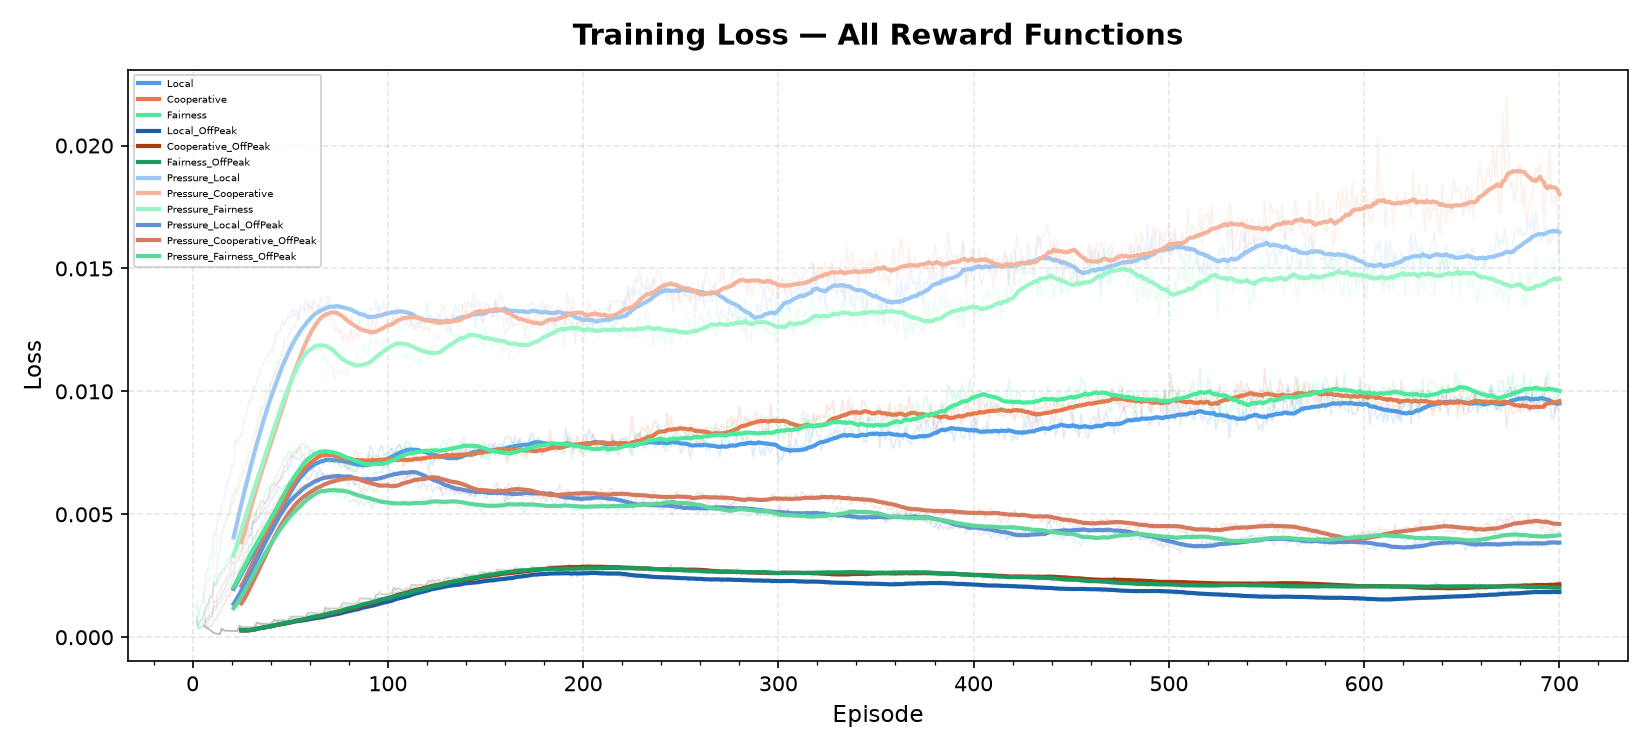
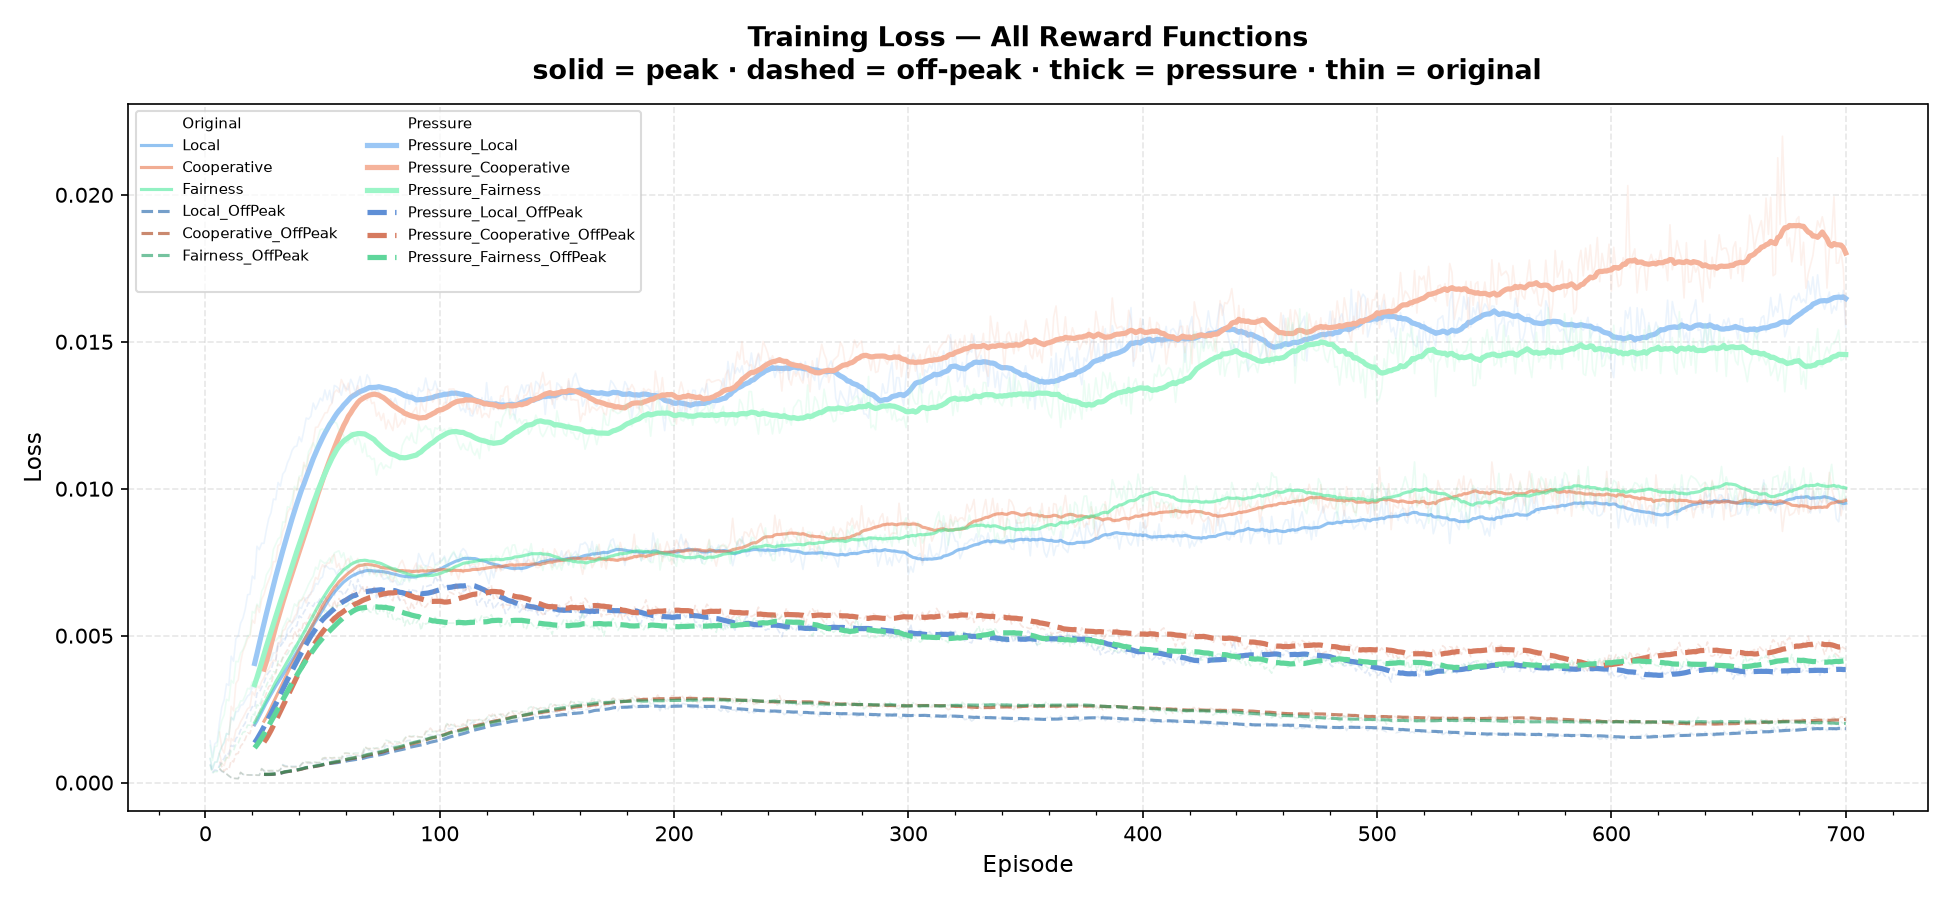
FINAL COMMIT FOR YEAR 2  (readme.md) added deprecated info in simulate.py (plot_result.py) changes the loss plot to be more distinct
that's it. good job.

diff --git a/plot_result.py b/plot_result.py
@@ -224,7 +224,7 @@ def plot_rewards(data: dict[str, dict], filename:str) -> None:
  
 def plot_loss(data: dict[str, dict]) -> None:
     """Plot loss for all reward functions on one graph."""
-    fig, ax = plt.subplots(figsize=(11, 5))
+    fig, ax = plt.subplots(figsize=(13, 6))
 
     for label, result in data.items():
         losses = result["episode_losses"]
@@ -237,14 +237,44 @@ def plot_loss(data: dict[str, dict]) -> None:
         ep_nz, l_nz = zip(*nonzero)
         ep_nz, l_nz = np.array(ep_nz), list(l_nz)
 
-        ax.plot(ep_nz, l_nz, color=color, alpha=0.18, linewidth=0.8)
-        ax.plot(ep_nz, smooth(l_nz, SMOOTH_WINDOW),
-                color=color, linewidth=2, label=label)
+        is_pressure = label.startswith("Pressure")
+        is_offpeak  = "OffPeak" in label
 
-    ax.set_title("Training Loss — All Reward Functions", fontsize=14, fontweight="bold", pad=12)
+        lw    = 2.5 if is_pressure else 1.5
+        alpha = 1.0 if is_pressure else 0.6
+        ls    = "--" if is_offpeak  else "-"
+
+        ax.plot(ep_nz, l_nz,
+                color=color, alpha=alpha * 0.18, linewidth=0.8, linestyle=ls)
+        ax.plot(ep_nz, smooth(l_nz, SMOOTH_WINDOW),
+                color=color, linewidth=lw, linestyle=ls, alpha=alpha, label=label)
+
+    handles, labels_list = ax.get_legend_handles_labels()
+    orig_h     = [h for h, l in zip(handles, labels_list) if not l.startswith("Pressure")]
+    orig_l     = [l for l in labels_list if not l.startswith("Pressure")]
+    press_h    = [h for h, l in zip(handles, labels_list) if l.startswith("Pressure")]
+    press_l    = [l for l in labels_list if l.startswith("Pressure")]
+
+    from matplotlib.lines import Line2D
+    sep = Line2D([], [], color="none", label="")          # blank spacer
+    leg_handles = (
+        [Line2D([], [], color="none", label="— Original —")] + orig_h +
+        [sep] +
+        [Line2D([], [], color="none", label="— Pressure —")] + press_h
+    )
+    leg_labels = (
+        ["Original"] + orig_l +
+        [""] +
+        ["Pressure"] + press_l
+    )
+    ax.legend(leg_handles, leg_labels, fontsize=7, loc="upper left",
+              ncol=2, framealpha=0.7)
+
+    ax.set_title("Training Loss — All Reward Functions\n"
+                 "  solid = peak · dashed = off-peak · thick = pressure · thin = original",
+                 fontsize=13, fontweight="bold", pad=12)
     ax.set_xlabel("Episode", fontsize=11)
     ax.set_ylabel("Loss", fontsize=11)
-    ax.legend(fontsize=5)
     ax.grid(True, alpha=0.3, linestyle="--")
     ax.xaxis.set_minor_locator(ticker.AutoMinorLocator())
     fig.tight_layout()
@@ -517,4 +547,4 @@ def main():
     print("Done.")
 
 if __name__ == '__main__':
-    print_metrics_table()
+    main()

diff --git a/README.md b/README.md
@@ -240,7 +240,7 @@ Per-run training curves:
 python utils/plotter.py outputs/local_peak_20260616_174501
 ```
 
-Watch a trained checkpoint in SUMO GUI:
+(DEPRECATED) Watch a trained checkpoint in SUMO GUI:
 
 ```bash
 python simulate.py --checkpoint-dir outputs/local_peak --scenario peak --reward local
